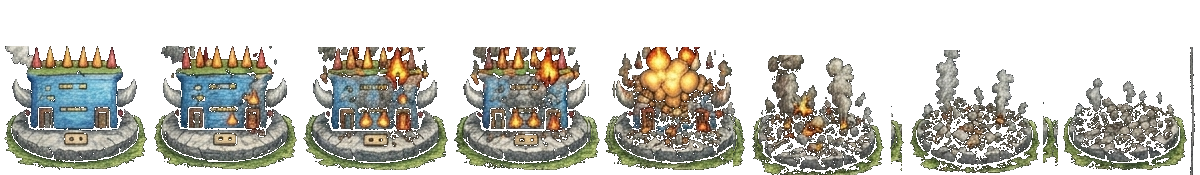
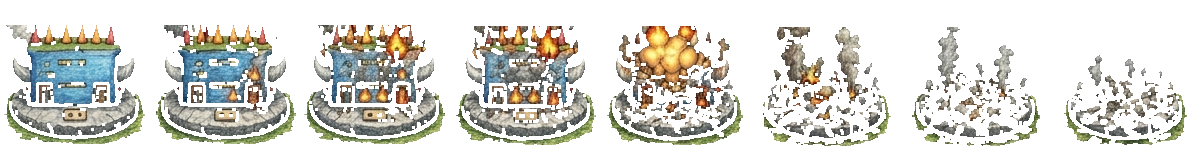
dino: clean up base destruction art — smaller scale, no label/edge artifacts
- Re-cut the 8 frames with a tighter Y range so the frame-number labels and
  mockup guide lines below the grass ovals are no longer baked into the sprites.
- 1px alpha erosion removes the antialiased green fringe that ringed each oval.
- Cell is now 150x150; draw scale dropped from b.w*1.5 to b.w*1.05 so the base
  no longer looks blown-up/pixelated.

diff --git a/dino-vs-kosmici/dino-vs-kosmici.html b/dino-vs-kosmici/dino-vs-kosmici.html
@@ -278,7 +278,7 @@
   // Base destruction: 8 frames. 0-1 intact, 2 fire starts, 3 explosion,
   // 4-5 collapsing, 6-7 burning ruins. Living bases show 0/1/2 by HP; on
   // death we play 3→7 and hold on the ruins.
-  const BASE_DESTRUCT = { frames: 8, frameW: 150, frameH: 175, deathFps: 6 };
+  const BASE_DESTRUCT = { frames: 8, frameW: 150, frameH: 150, deathFps: 6 };
   // Stego: 18 frames laid out as idle(6) + walk(8) + shoot(4). Each frame is
   // pre-normalized so the dino body is at constant size, centered, feet at
   // bottom — no per-frame bbox handling needed.
@@ -2048,9 +2048,10 @@
         frame = f > 0.5 ? 0 : (f > 0.22 ? 1 : 2);
       }
       // Scale to base width; anchor the grass row at the base's bottom edge.
-      const drawW = b.w * 1.5;
+      // Keep close to the 150px native size so it doesn't pixelate.
+      const drawW = b.w * 1.05;
       const drawH = drawW * BASE_DESTRUCT.frameH / BASE_DESTRUCT.frameW;
-      const grassFrac = 0.045; // grass sits ~4.5% above the cell bottom
+      const grassFrac = 0.04; // grass sits ~4% above the cell bottom
       const topY = (b.y + b.h/2) - drawH * (1 - grassFrac);
       ctx.drawImage(sheet,
         frame * BASE_DESTRUCT.frameW, 0, BASE_DESTRUCT.frameW, BASE_DESTRUCT.frameH,